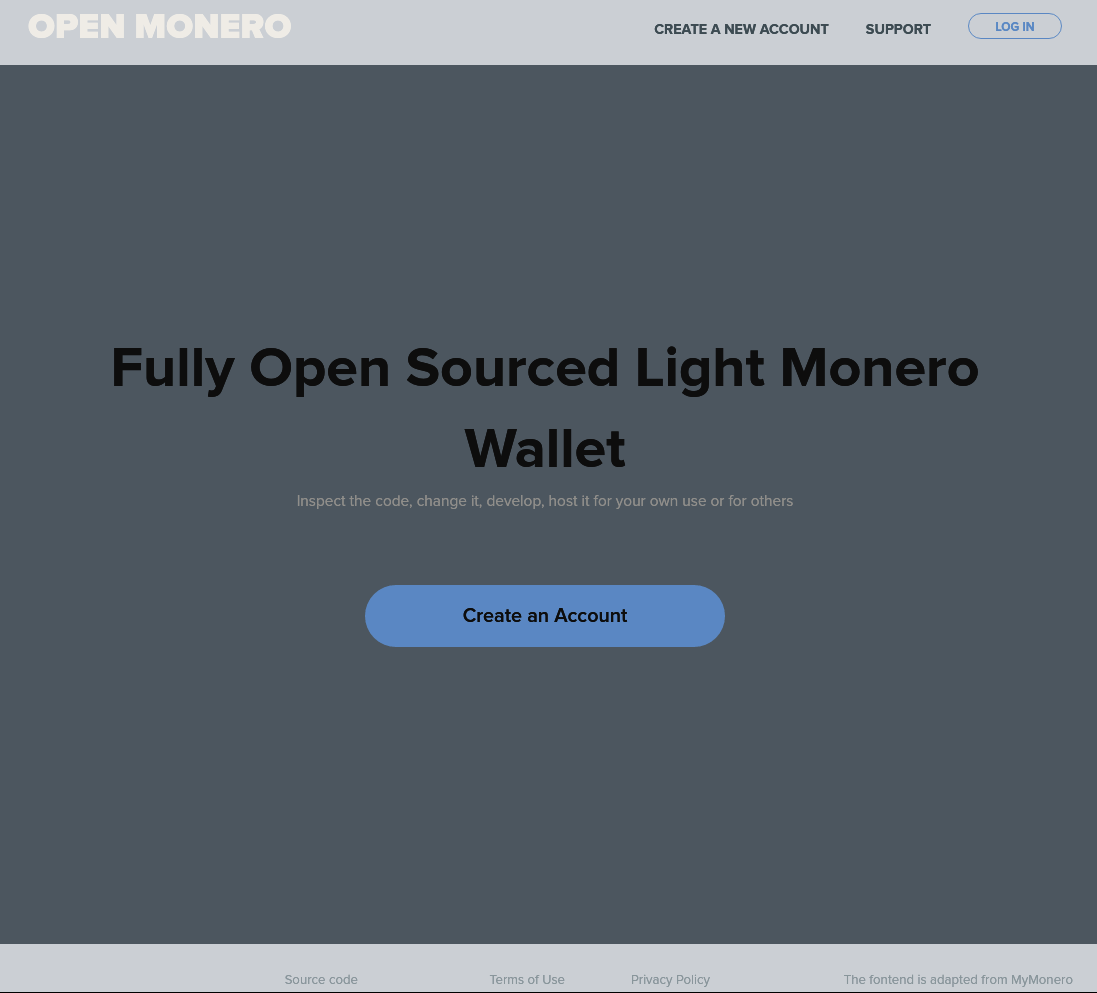
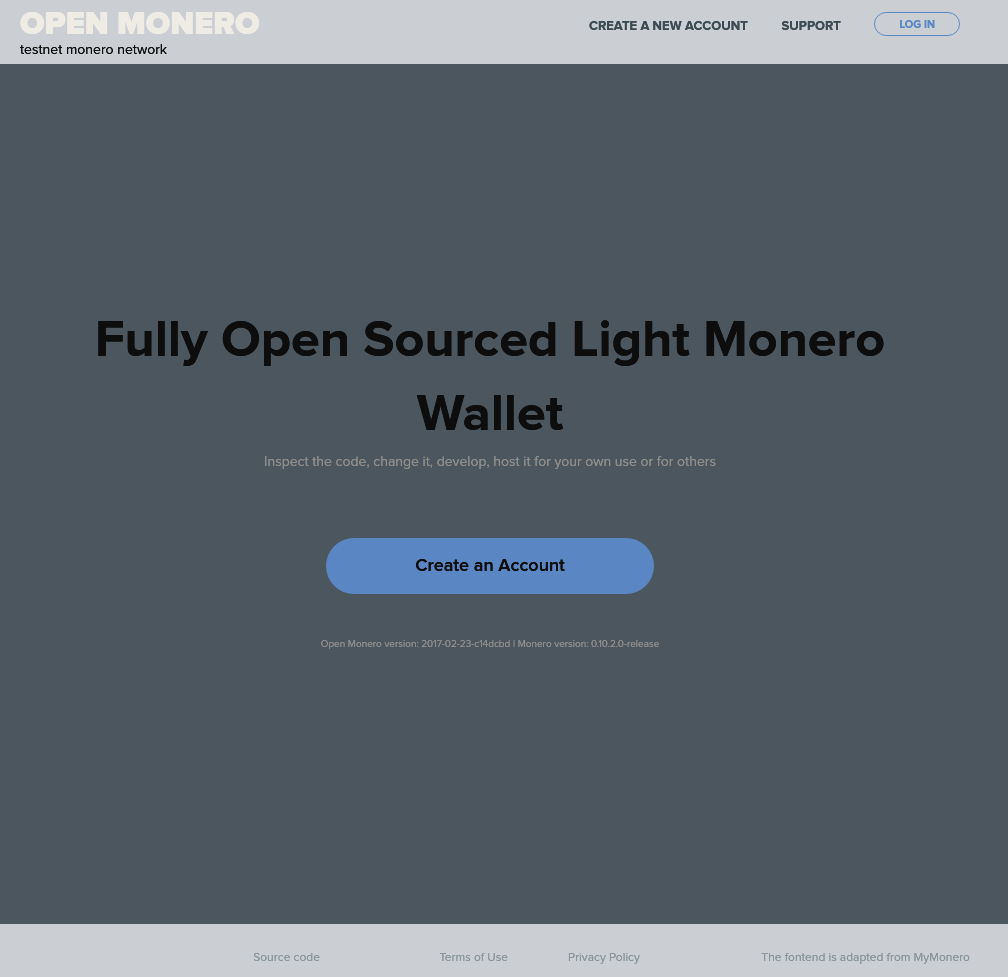
versioning added to front end and screenshot updated

diff --git a/html/partials/home.html b/html/partials/home.html
@@ -29,13 +29,22 @@ html {
   background: rgb(13,13,13) !important;
 }
 
-}</style></head><body><div class="body-section steps-page">
-  <div class="header-section">
-    <div class="w-container home-container">
-      <div class="home-header">Fully Open Sourced Light Monero Wallet</div>
-      <div class="home-subhead">Inspect the code, change it, develop, host it for your own use or for others</div>
-      <a class="create-account-btn" href="#/create-your-account">Create an Account</a>
+}</style></head>
+<body>
+  <div class="body-section steps-page">
+    <div class="header-section">
+      <div class="w-container home-container">
+        <div class="home-header">Fully Open Sourced Light Monero Wallet</div>
+        <div class="home-subhead">Inspect the code, change it, develop, host it for your own use or for others</div>
+        <a class="create-account-btn" href="#/create-your-account">Create an Account</a>
+        <div class="home-subhead" style="font-size:10px" ng-show="last_git_commit_date">
+          <br/><br/>
+          Open Monero version: {{last_git_commit_date}}-{{last_git_commit_hash}} | Monero version: {{monero_version_full}}
+        </div>
+      </div>
+
+
     </div>
+
   </div>
-</div>
 </body></html>

diff --git a/html/js/controllers/temp.js b/html/js/controllers/temp.js
@@ -1,3 +1,17 @@
-thinwalletCtrls.controller('TempCtrl', function ($scope) {
+thinwalletCtrls.controller('TempCtrl', function ($scope, $http) {
 
+    $scope.last_git_commit_date = "";
+    $scope.last_git_commit_hash = "";
+    $scope.monero_version_full = "";
+
+    $http.post(config.apiUrl + 'get_version')
+        .success(function(data) {
+            $scope.last_git_commit_date = data.last_git_commit_date;
+            $scope.last_git_commit_hash = data.last_git_commit_hash;
+            $scope.monero_version_full  = data.monero_version_full;
+
+        })
+        .error(function(data) {
+            console.log("Error getting version. No big deal.")
+        });
 });

diff --git a/html/index.html b/html/index.html
@@ -109,7 +109,6 @@
 <section class="main-section">
     <div ng-view></div>
 </section>
-
 <div class="footer-section">
     <div class="lower-footer">
         <div class="w-container">

diff --git a/src/YourMoneroRequests.cpp b/src/YourMoneroRequests.cpp
@@ -758,6 +758,25 @@ YourMoneroRequests::import_wallet_request(const shared_ptr< Session > session, c
     session->close( OK, response_body, response_headers);
 }
 
+
+void
+YourMoneroRequests::get_version(const shared_ptr< Session > session, const Bytes & body)
+{
+
+    json j_response {
+        {"last_git_commit_hash", string {GIT_COMMIT_HASH}},
+        {"last_git_commit_date", string {GIT_COMMIT_DATETIME}},
+        {"monero_version_full" , string {MONERO_VERSION_FULL}},
+    };
+
+    string response_body = j_response.dump();
+
+    auto response_headers = make_headers({{ "Content-Length", to_string(response_body.size())}});
+
+    session->close( OK, response_body, response_headers);
+}
+
+
 shared_ptr<Resource>
 YourMoneroRequests::make_resource(
         function< void (YourMoneroRequests&, const shared_ptr< Session >, const Bytes& ) > handle_func,

diff --git a/main.cpp b/main.cpp
@@ -168,6 +168,9 @@ auto import_wallet_request = your_xmr.make_resource(
         &xmreg::YourMoneroRequests::import_wallet_request,
         "/import_wallet_request");
 
+auto get_version = your_xmr.make_resource(
+        &xmreg::YourMoneroRequests::get_version,
+        "/get_version");
 
 // restbed service
 Service service;
@@ -180,6 +183,7 @@ service.publish(get_unspent_outs);
 service.publish(get_random_outs);
 service.publish(submit_raw_tx);
 service.publish(import_wallet_request);
+service.publish(get_version);
 
 auto settings = make_shared<Settings>( );
 

diff --git a/src/YourMoneroRequests.h b/src/YourMoneroRequests.h
@@ -87,6 +87,9 @@ public:
     void
     import_wallet_request(const shared_ptr< Session > session, const Bytes & body);
 
+    void
+    get_version(const shared_ptr< Session > session, const Bytes & body);
+
     shared_ptr<Resource>
     make_resource(function< void (YourMoneroRequests&, const shared_ptr< Session >, const Bytes& ) > handle_func,
                   const string& path);
